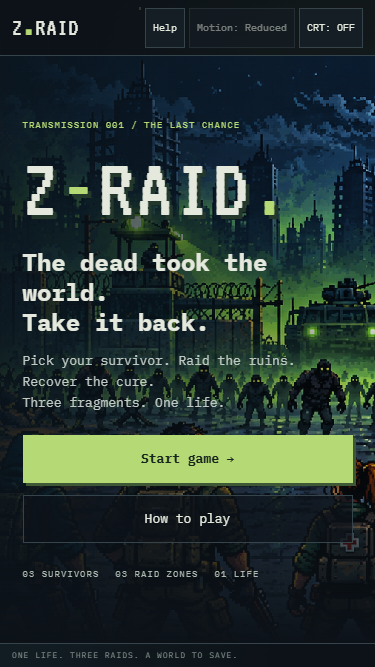
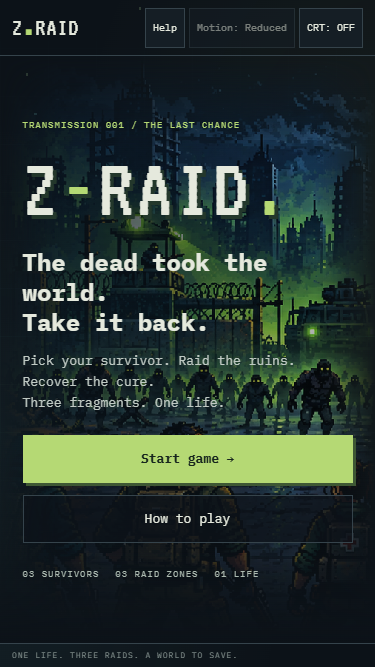
Fade hero artwork edges into the page

diff --git a/styles.css b/styles.css
@@ -7,7 +7,7 @@
    minimum, natural overflow preserves readable content instead of clipping it. */
 button,a{-webkit-tap-highlight-color:transparent}button{font:inherit;cursor:pointer;border:1px solid var(--line);color:inherit;background:var(--panel);border-radius:0;transition:transform 160ms,box-shadow 160ms,border-color 160ms;min-height:44px}button:hover{border-color:var(--green);background:#202c2b}button:focus-visible,a:focus-visible{outline:3px solid #e6bd76;outline-offset:3px}button:disabled{cursor:default;opacity:.5}p{color:var(--muted);margin:8px 0}h1,h2,h3{margin:0;line-height:1.15}h1{font:clamp(30px,4vh,44px)/1.12 'VT323',Consolas,monospace}h2{font-size:24px}small{font-size:12px}
 header,main,footer{position:relative;z-index:1;width:100%;max-width:1400px;margin:0 auto}header{display:flex;align-items:center;justify-content:space-between;padding:10px 4%;gap:12px;border-bottom:1px solid var(--line);min-height:64px}.brand{font:32px 'VT323',monospace;letter-spacing:3px;color:var(--text);text-decoration:none;white-space:nowrap}.brand span{font-size:10px;color:var(--green);margin:0 3px}.header-right{display:flex;align-items:center;gap:10px}.small{padding:6px 10px;font-size:11px}.live{color:var(--green);font-size:10px;letter-spacing:1px}main{min-height:0;outline:none}footer{display:flex;align-items:center;justify-content:space-between;padding:6px 4%;border-top:1px solid var(--line);font-size:9px;letter-spacing:1px;color:#84918e;min-height:28px}footer i{color:var(--green);font-style:normal}.primary{background:var(--green);color:#17251d;border-color:var(--green);font-weight:700;padding:10px 22px;box-shadow:3px 3px #3e5734}.primary:hover{background:#c5e28f;color:#17251d}.secondary{padding:10px 20px;background:#0c1218bb}.eyebrow{display:block;color:var(--green);font-size:11px;letter-spacing:1.4px;margin-bottom:8px}.pixel{width:52px;height:52px;flex-shrink:0;image-rendering:pixelated}
-.hero{height:100%;min-height:0;position:relative;display:flex;align-items:center;background:linear-gradient(90deg,#0b151de8,#0b151d36),url('assets/title.png') center/cover,#1a2a2d;isolation:isolate;overflow:hidden;image-rendering:pixelated}.hero-shade{position:absolute;inset:0;pointer-events:none;background:linear-gradient(0deg,#0c1218,transparent 35%);z-index:1}.hero-copy{position:relative;z-index:2;padding:24px 6%;max-width:850px}.hero h1{font:clamp(80px,18vh,160px)/.95 'VT323',Impact,monospace;letter-spacing:3px;margin:18px 0;text-shadow:4px 4px #23372b}.hero h1 span{color:var(--green)}.hero h2{font-size:clamp(22px,3.3vh,30px);line-height:1.25}.hero p{font-size:14px;color:#c0cac4;margin:16px 0}.actions{display:flex;gap:14px;margin:24px 0}.hero-facts{display:flex;gap:24px;font-size:10px;color:#adbbb1;letter-spacing:1px;margin-top:26px}.hero-note{position:absolute;z-index:2;bottom:20px;right:4%;text-align:right}.hero-note p{font-size:11px}.hero::after{content:'';position:absolute;inset:-15%;z-index:0;pointer-events:none;opacity:0;background:radial-gradient(ellipse at 75% 70%,#9ecb671a,transparent 42%)}
+.hero{height:100%;min-height:0;position:relative;display:flex;align-items:center;background:transparent;isolation:isolate;overflow:hidden;image-rendering:pixelated}.hero::before{content:'';position:absolute;inset:0;z-index:0;pointer-events:none;background:linear-gradient(90deg,#0b151de8,#0b151d36),url('assets/title.png') center/cover,#1a2a2d;mask-image:linear-gradient(90deg,transparent,#000 16%,#000 84%,transparent),linear-gradient(transparent,#000 16%,#000 84%,transparent);mask-composite:intersect}.hero-shade{position:absolute;inset:0;pointer-events:none;background:linear-gradient(0deg,#0c1218,transparent 35%);z-index:1}.hero-copy{position:relative;z-index:2;padding:24px 6%;max-width:850px}.hero h1{font:clamp(80px,18vh,160px)/.95 'VT323',Impact,monospace;letter-spacing:3px;margin:18px 0;text-shadow:4px 4px #23372b}.hero h1 span{color:var(--green)}.hero h2{font-size:clamp(22px,3.3vh,30px);line-height:1.25}.hero p{font-size:14px;color:#c0cac4;margin:16px 0}.actions{display:flex;gap:14px;margin:24px 0}.hero-facts{display:flex;gap:24px;font-size:10px;color:#adbbb1;letter-spacing:1px;margin-top:26px}.hero-note{position:absolute;z-index:2;bottom:20px;right:4%;text-align:right}.hero-note p{font-size:11px}.hero::after{content:'';position:absolute;inset:-15%;z-index:0;pointer-events:none;opacity:0;background:radial-gradient(ellipse at 75% 70%,#9ecb671a,transparent 42%)}
 .screen{height:100%;max-width:1120px;margin:auto;padding:20px 4%;display:flex;flex-direction:column;gap:14px;min-height:0}.screen-heading{flex-shrink:0}.screen-heading p{margin:7px 0 0}.screen-actions{display:flex;align-items:center;justify-content:space-between;gap:12px;margin-top:auto;flex-shrink:0;padding:4px}.screen-actions.single{justify-content:center}.action-note,.detail-note{font-size:12px;color:var(--muted)}.selection-layout{display:grid;grid-template-columns:260px minmax(0,1fr);gap:24px;flex:1;min-height:0;align-items:center}.option-list{display:grid;gap:10px}.choice{display:flex;align-items:center;gap:14px;min-height:64px;width:100%;padding:10px 14px;text-align:left}.choice b{flex:1;font-size:13px}.choice>span{color:var(--green)}.choice .pixel{width:38px;height:38px}.choice.selected{border:2px solid var(--green);background:#1b2927;padding:9px 13px}.selected-detail{display:flex;align-items:center;gap:24px;background:var(--panel);border:1px solid var(--line);padding:24px;min-width:0}.portrait{width:clamp(80px,12vw,160px);height:160px}.selected-detail>div{min-width:0}.selected-detail p{font-size:14px}.selected-detail .tags{padding-top:8px;color:var(--text);font-size:12px}.selected-detail .detail-note{font-size:11px}.hud{display:grid;grid-template-columns:1.7fr 1.2fr 1.2fr .7fr 1.2fr;gap:12px;align-items:center;flex-shrink:0;padding:10px 14px;border:1px solid var(--line);background:var(--panel)}.hud span{display:block;color:var(--muted);font-size:10px}.hud b{font-size:12px}.survivor-status{display:flex;align-items:center;gap:8px}.hud .pixel{width:36px;height:36px}meter{display:block;width:128px;height:12px}meter::-webkit-meter-bar{background:#37413d;border:0}meter::-webkit-meter-optimum-value{background:var(--green)}.pursuit-tracker b{color:#deaa67}.prep-steps{display:flex;gap:8px;flex-shrink:0}.prep-steps button{flex:1;font-size:12px;padding:5px;min-height:36px}.prep-steps span{color:var(--muted);margin-right:5px}.prep-steps [aria-current]{border-color:var(--green);background:#223428;color:var(--green)}.review-panel{display:grid;grid-template-columns:1fr 1fr;gap:24px;align-items:center;flex:1;min-height:0;border:1px solid var(--line);background:var(--panel);padding:20px}.loadout-review{display:grid;gap:10px}.loadout-review>div{display:flex;align-items:center;gap:12px}.loadout-review small,.loadout-review b{display:block}.loadout-review small{color:var(--muted)}.review-stats p{font-size:13px}
 .raid-context{display:flex;justify-content:space-between;align-items:center;gap:12px;font-size:12px;flex-shrink:0}.raid-context>span{color:var(--muted)}.raid-body{display:flex;flex-direction:column;justify-content:center;gap:22px;background:var(--panel);border:1px solid var(--line);padding:30px;flex:1;min-height:0}.raid-body h1{font-size:clamp(30px,4.5vh,42px);max-width:850px}.decision-grid{display:grid;grid-template-columns:1fr 1fr;gap:20px}.decision{display:flex;flex-direction:column;gap:12px;padding:22px;text-align:left}.decision strong{font:38px 'VT323',monospace;color:var(--green)}.decision strong span{float:right}.decision b{font-size:14px;min-height:2.5em}.pursuit{font-size:12px;color:var(--green)}.decision small{font-size:12px;color:var(--muted);line-height:1.6}.odds-note{font-size:12px;margin:0}.outcome{padding:22px;border:1px solid var(--green)}.outcome.bad{border-color:var(--red)}.outcome.bad .eyebrow{color:var(--red)}.outcome-reward{font-size:22px;color:var(--green);margin:20px 0}.outcome.bad .outcome-reward{color:var(--red)}.result{text-align:center;max-width:780px;justify-content:center;gap:12px}.result-art{width:64px;height:64px;margin:0 auto;flex-shrink:0}.result .screen-heading h1{font-size:clamp(30px,5vh,46px)}.fragments{display:flex;justify-content:center;gap:12px;flex-shrink:0}.fragments>span{border:1px solid var(--line);padding:6px;opacity:.3}.fragments .pixel{width:36px;height:36px}.fragments small{display:block;font-size:10px}.fragments .filled{opacity:1;border-color:var(--green);background:#1b2927}.result-panel{background:var(--panel);border:1px solid var(--line);padding:16px}.result-panel p{font-size:13px;margin:8px 0}.result .screen-actions{margin-top:0}
 dialog{width:min(620px,calc(100% - 28px));max-height:calc(100dvh - 36px);background:var(--panel);color:var(--text);border:2px solid var(--green);padding:24px}dialog::backdrop{background:#050a10e8}.dialog-top{display:flex;align-items:center;justify-content:space-between;gap:12px;font-size:10px;color:var(--muted)}#manual-content{min-height:255px;padding:20px 0}#manual-content h2{font:36px 'VT323',monospace}#manual-content p{font-size:14px;margin:18px 0}.manual-controls{display:flex;justify-content:space-between;align-items:center;gap:10px}.manual-controls>span{font-size:12px}/* CRT texture stays static and leaves small text sharp. */
@@ -20,7 +20,7 @@ body.crt{--muted:#bec8c4;--crt-line:.24}
 @media(max-width:600px){body.crt{--crt-line:.18}.crt::before{background:radial-gradient(ellipse at center,transparent 60%,#02080d28 90%,#02080d40 100%)}}
 
 .ambient{position:fixed;inset:0;z-index:0;overflow:hidden;pointer-events:none;contain:strict}.ambient::before{content:'';position:absolute;inset:-20%;background:radial-gradient(ellipse at 12% 75%,#77c9c51b,transparent 45%),radial-gradient(ellipse at 88% 35%,#b5d97414,transparent 48%);opacity:.7}.ambient::after{content:'';position:absolute;inset:0;background:linear-gradient(#77c9c506 1px,transparent 1px),linear-gradient(90deg,#77c9c506 1px,transparent 1px);background-size:48px 48px;mask-image:linear-gradient(transparent,#000,transparent)}.mote{position:absolute;left:var(--x);top:var(--y);height:3px;width:2px;background:#8aae7c;opacity:.25}.mote:nth-child(3n){height:2px;width:3px;background:#77c9c5}
-@media(prefers-reduced-motion:no-preference){body:not(.motion-off) .hero{background-image:linear-gradient(90deg,#0b151de8,#0b151d36),url('assets/title-loop.gif')}body:not(.motion-off) .hero::after{opacity:1;animation:menu-mist 12s ease-in-out infinite}body:not(.motion-off) .hero h1{animation:title-glow 7s ease-in-out infinite}body:not(.motion-off) .hero-note .live{animation:signal-breathe 4s ease-in-out infinite}body:not(.motion-off) .hero .primary{animation:menu-beacon 3.5s ease-in-out infinite}body:not(.motion-off) button:is(:hover,:focus-visible){transform:translateY(-2px);box-shadow:0 4px 0 #070c11,0 0 18px #b5d97412}body:not(.motion-off) .hero .primary:is(:hover,:focus-visible){animation:none;transform:translate(2px,-2px);box-shadow:3px 5px #3e5734}body:not(.motion-off) .ambient::before{animation:quarantine-fog 22s ease-in-out infinite}body:not(.motion-off) .mote{animation:pixel-drift var(--duration) linear var(--delay) infinite}}
+@media(prefers-reduced-motion:no-preference){body:not(.motion-off) .hero::before{background-image:linear-gradient(90deg,#0b151de8,#0b151d36),url('assets/title-loop.gif')}body:not(.motion-off) .hero::after{opacity:1;animation:menu-mist 12s ease-in-out infinite}body:not(.motion-off) .hero h1{animation:title-glow 7s ease-in-out infinite}body:not(.motion-off) .hero-note .live{animation:signal-breathe 4s ease-in-out infinite}body:not(.motion-off) .hero .primary{animation:menu-beacon 3.5s ease-in-out infinite}body:not(.motion-off) button:is(:hover,:focus-visible){transform:translateY(-2px);box-shadow:0 4px 0 #070c11,0 0 18px #b5d97412}body:not(.motion-off) .hero .primary:is(:hover,:focus-visible){animation:none;transform:translate(2px,-2px);box-shadow:3px 5px #3e5734}body:not(.motion-off) .ambient::before{animation:quarantine-fog 22s ease-in-out infinite}body:not(.motion-off) .mote{animation:pixel-drift var(--duration) linear var(--delay) infinite}}
 @keyframes menu-mist{0%,100%{transform:translate(-1%,1%);opacity:.55}50%{transform:translate(2%,-1%);opacity:1}}@keyframes title-glow{0%,100%{text-shadow:4px 4px #23372b}50%{text-shadow:4px 4px #23372b,0 0 24px #b5d97425}}@keyframes signal-breathe{0%,100%{opacity:.65}50%{opacity:1}}@keyframes menu-beacon{0%,100%{box-shadow:3px 3px #3e5734}50%{box-shadow:3px 3px #3e5734,0 0 22px #b5d97420}}@keyframes quarantine-fog{0%,100%{transform:translate(-3%,2%);opacity:.5}50%{transform:translate(4%,-3%);opacity:.9}}@keyframes pixel-drift{0%{transform:translate(0,60px);opacity:0}15%{opacity:.45}75%{opacity:.35}100%{transform:translate(35px,-160px);opacity:0}}
 body.motion-off button{transition:none}
 @media(max-width:800px){.header-right .live,.hero-note{display:none}.screen{padding:16px 3%;gap:12px}.selection-layout{grid-template-columns:190px 1fr;gap:14px}.selected-detail{padding:16px;gap:14px}.portrait{width:76px;height:100px}.hud{gap:8px;padding:8px}.hud b{font-size:11px}meter{width:112px}.raid-body{padding:20px}.review-panel{gap:16px;padding:16px}}

diff --git a/DEVELOPMENT.md b/DEVELOPMENT.md
@@ -83,3 +83,5 @@ All three generated encounter atlases decoded successfully and covered thirty un
 Description-area artwork adjustment: scenes now live inside the upper description container only, ending above both Yes/No buttons. Fade masks and 70% opacity are preserved. 393 viewport checks passed at 375 × 667, 1366 × 768 and 1440 × 900, including every encounter and live resizing. The matching radio encounter was also visually checked at 1425 × 1290.
 
 CRT display: the optional overlay now combines stronger four-pixel scanlines, subtle RGB phosphor columns, edge vignette and a soft heading glow. Secondary copy and small header/footer text are brighter to maintain readability; small text is never blurred, shifted or resized. Mobile scanline strength is reduced slightly. CRT is static and remains available under reduced-motion settings, independently of Motion. `crt-check.cjs` verified visible on/off differences, identical small-text geometry, no overflow, toggles, reduced motion, help and raid input at 375 × 667 and 1440 × 900. Previews: `assets/preview-crt-375.png` and `assets/preview-crt-1440.png`.
+
+Hero edge fade: the front-page artwork now uses a separate masked background layer with the same horizontal/vertical edge fades as the encounters. Existing opacity, shading and GIF motion are preserved; text and buttons remain fully opaque. `motion-check.cjs` passed desktop/mobile previews, edge-mask presence, GIF motion, hover, motion preference persistence, reduced-motion still image and game start.
